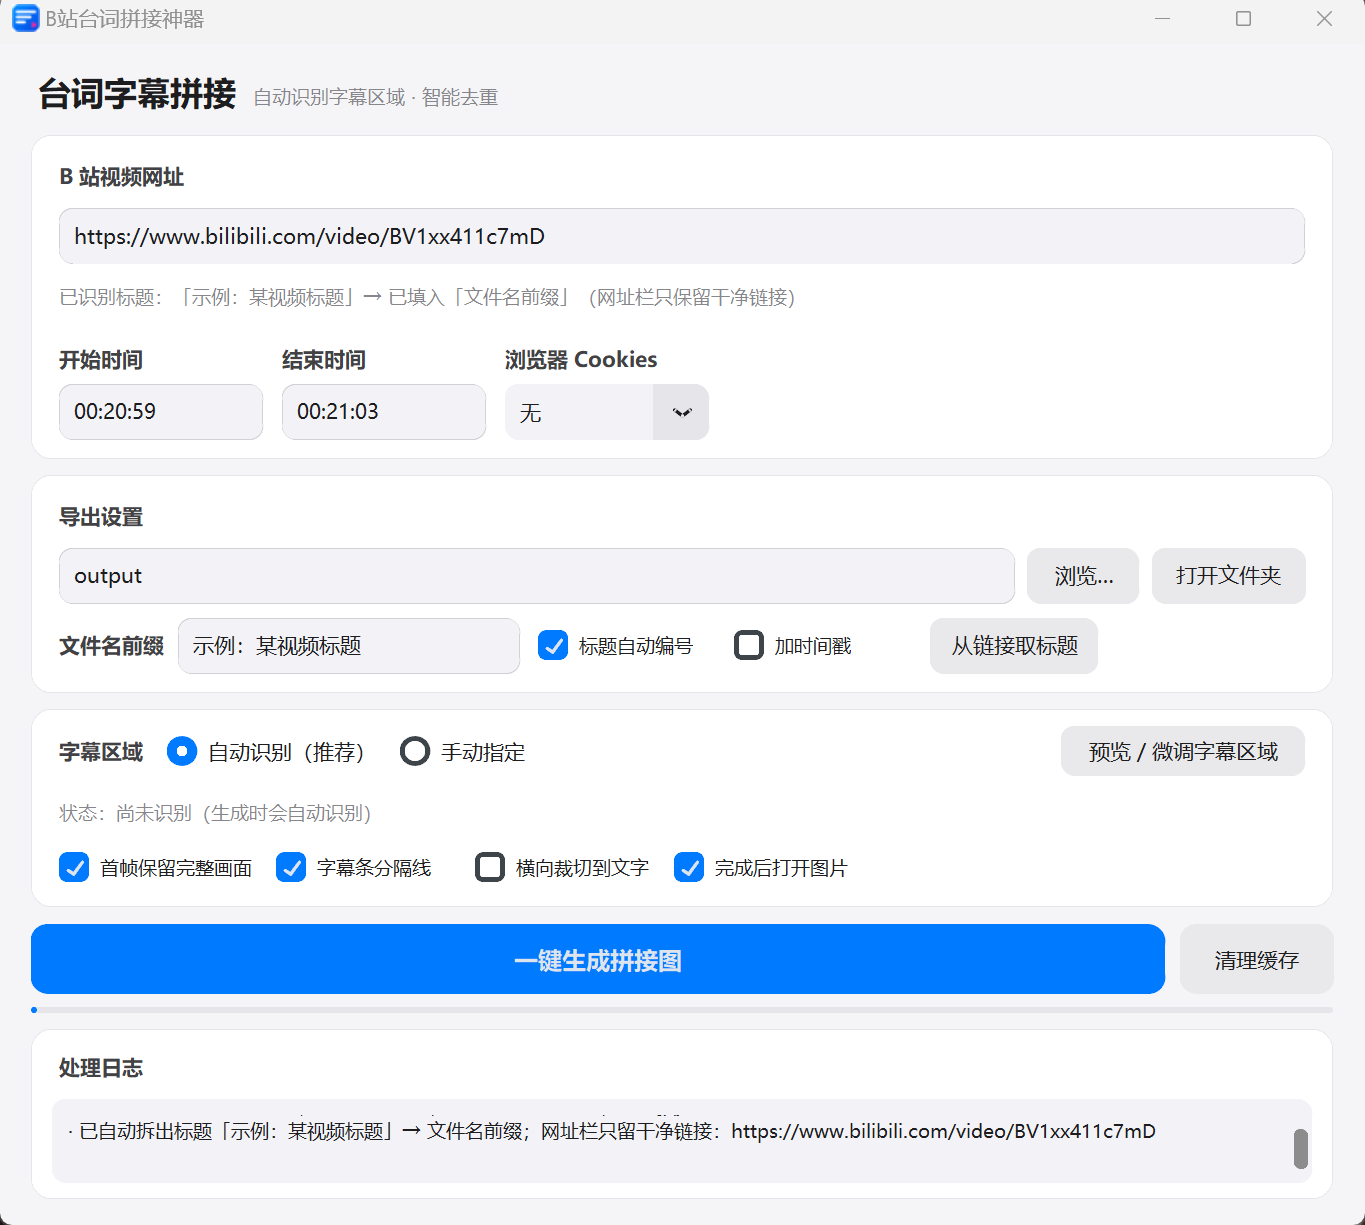
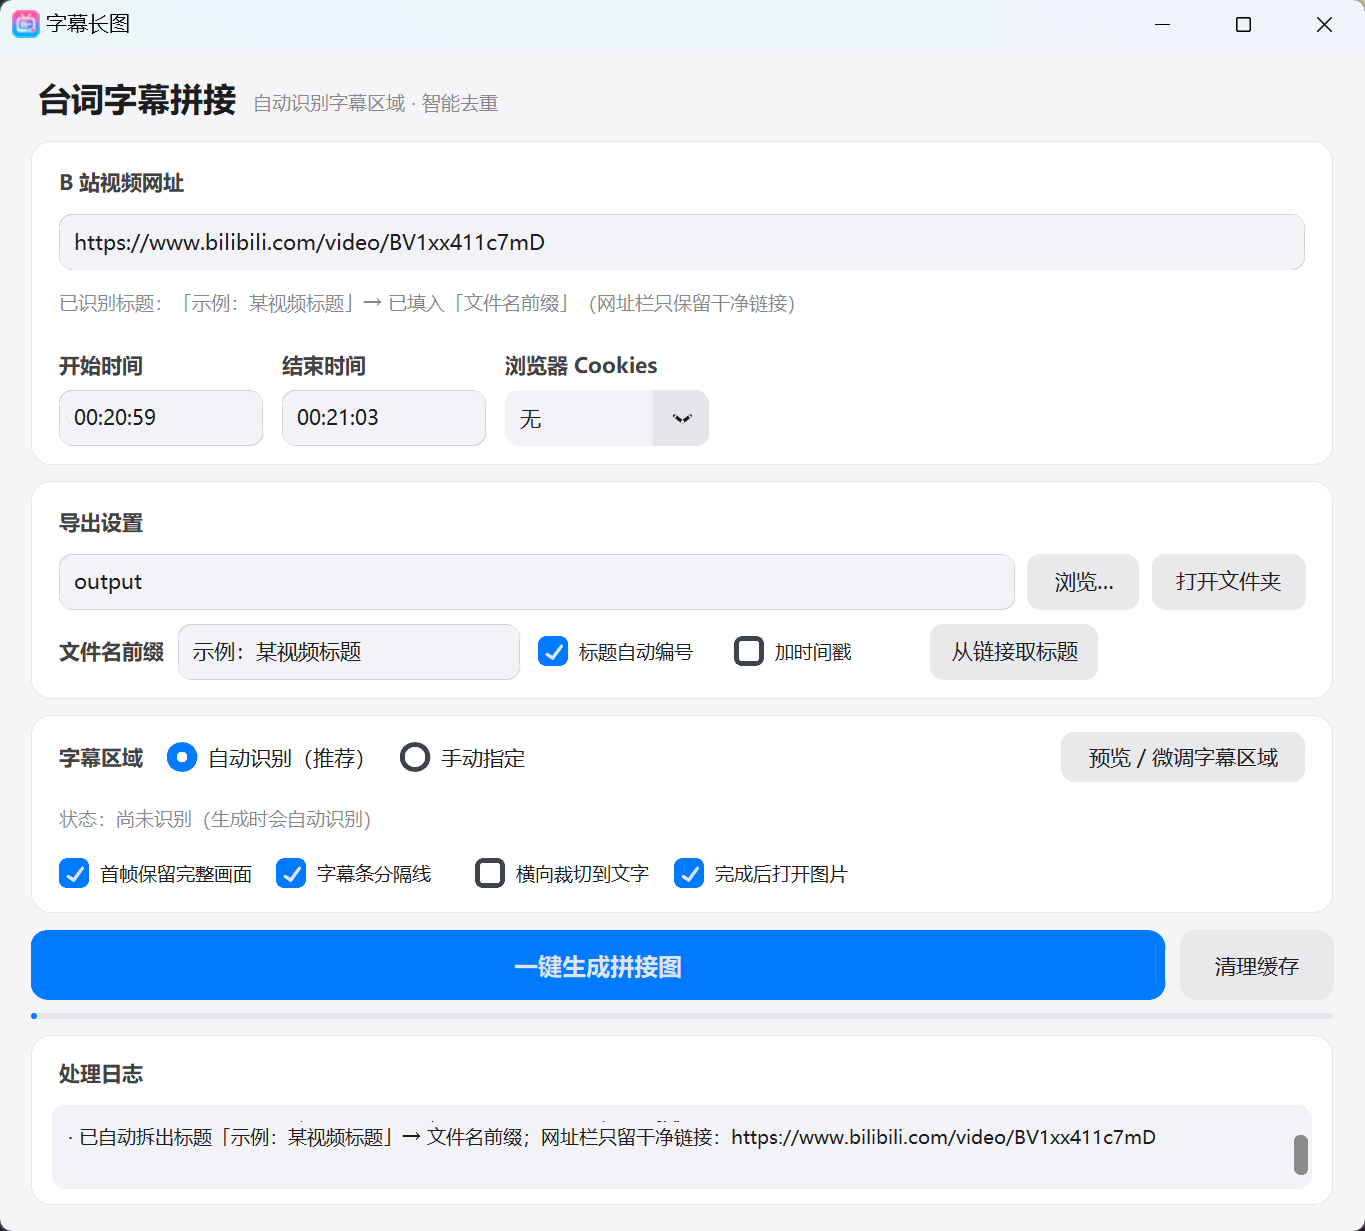
改名：字幕长图（bili-subshot）
- 中文名：B站台词拼接神器 -> 字幕长图
- 英文/仓库名：bili-hardsub-stitcher -> bili-subshot（GitHub 上旧地址有重定向）
- 同步更新：README 标题/徽章/克隆命令、docs/使用说明.md 标题、
  程序窗口标题、gui_app.pyw 与 tests_naming.py 的模块说明
- README 首行补上「B 站视频 + 硬字幕」，避免改了名字后丢掉适用范围的说明
- 重拍 README 界面截图（原标题栏写的是旧名）

diff --git a/tests_naming.py b/tests_naming.py
@@ -1,6 +1,6 @@
 # -*- coding: utf-8 -*-
 r"""
-B站台词拼接神器 —— 回归测试（链接解析 / 自动编号命名 / GUI 粘贴行为）
+字幕长图 —— 回归测试（链接解析 / 自动编号命名 / GUI 粘贴行为）
 
 跑法：
     python -X utf8 tests_naming.py

diff --git a/README.md b/README.md
@@ -1,13 +1,13 @@
-# B站台词拼接神器
+# 字幕长图 · bili-subshot
 
-> 把一段视频里的台词字幕**自动拼成一张长图**：自动识别字幕区域、按「同一句只留一帧」去重、逐句裁切、纵向拼接。
+> 把 B 站视频里的**硬字幕**自动拼成一张长图：字幕区域自动识别、按「同一句只留一帧」去重、逐句裁切、纵向拼接。
 >
 > Stitch hard-coded subtitles from a video segment into one long image — automatic subtitle-band detection, frame de-duplication, and vertical stitching. (Python + OpenCV + customtkinter)
 
 ![Python](https://img.shields.io/badge/python-3.9%2B-blue)
 ![License](https://img.shields.io/badge/license-PolyForm_Noncommercial_1.0.0-orange)
 ![Platform](https://img.shields.io/badge/platform-Windows%20%7C%20macOS%20%7C%20Linux-lightgrey)
-[![tests](https://github.com/Heisenberg-cmd0079/bili-hardsub-stitcher/actions/workflows/tests.yml/badge.svg)](https://github.com/Heisenberg-cmd0079/bili-hardsub-stitcher/actions/workflows/tests.yml)
+[![tests](https://github.com/Heisenberg-cmd0079/bili-subshot/actions/workflows/tests.yml/badge.svg)](https://github.com/Heisenberg-cmd0079/bili-subshot/actions/workflows/tests.yml)
 
 ![主界面](docs/images/gui.png)
 
@@ -28,8 +28,8 @@
 ## 快速开始
 
 ```bash
-git clone https://github.com/Heisenberg-cmd0079/bili-hardsub-stitcher.git
-cd bili-hardsub-stitcher
+git clone https://github.com/Heisenberg-cmd0079/bili-subshot.git
+cd bili-subshot
 pip install -r requirements.txt
 ```
 

diff --git a/docs/使用说明.md b/docs/使用说明.md
@@ -1,4 +1,4 @@
-# B站台词拼接神器 · 使用说明（2026-09 改造版）
+# 字幕长图 · 使用说明（2026-09 改造版）
 
 ## 〇、2026-09-28 新增：客户端链接直贴 + 标题自动命名
 
